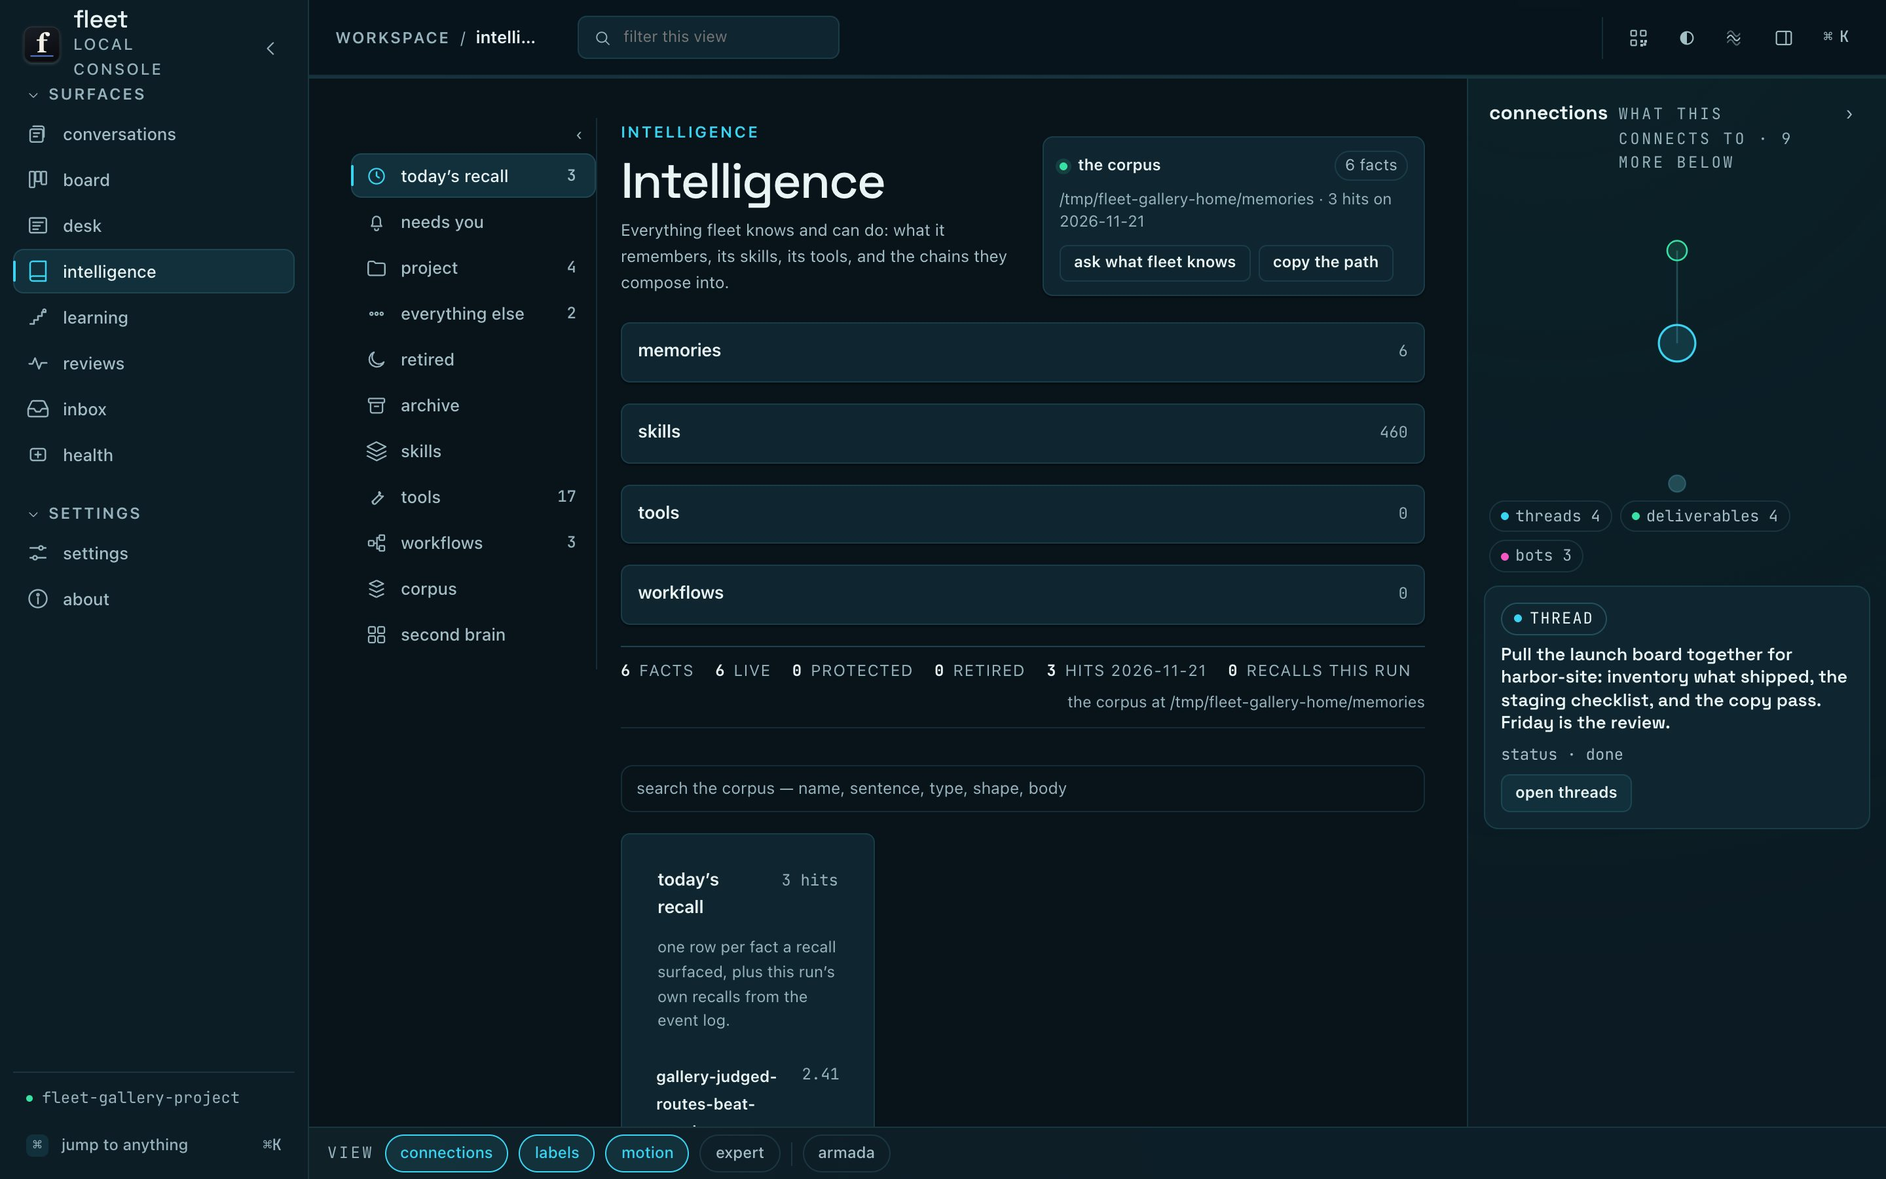
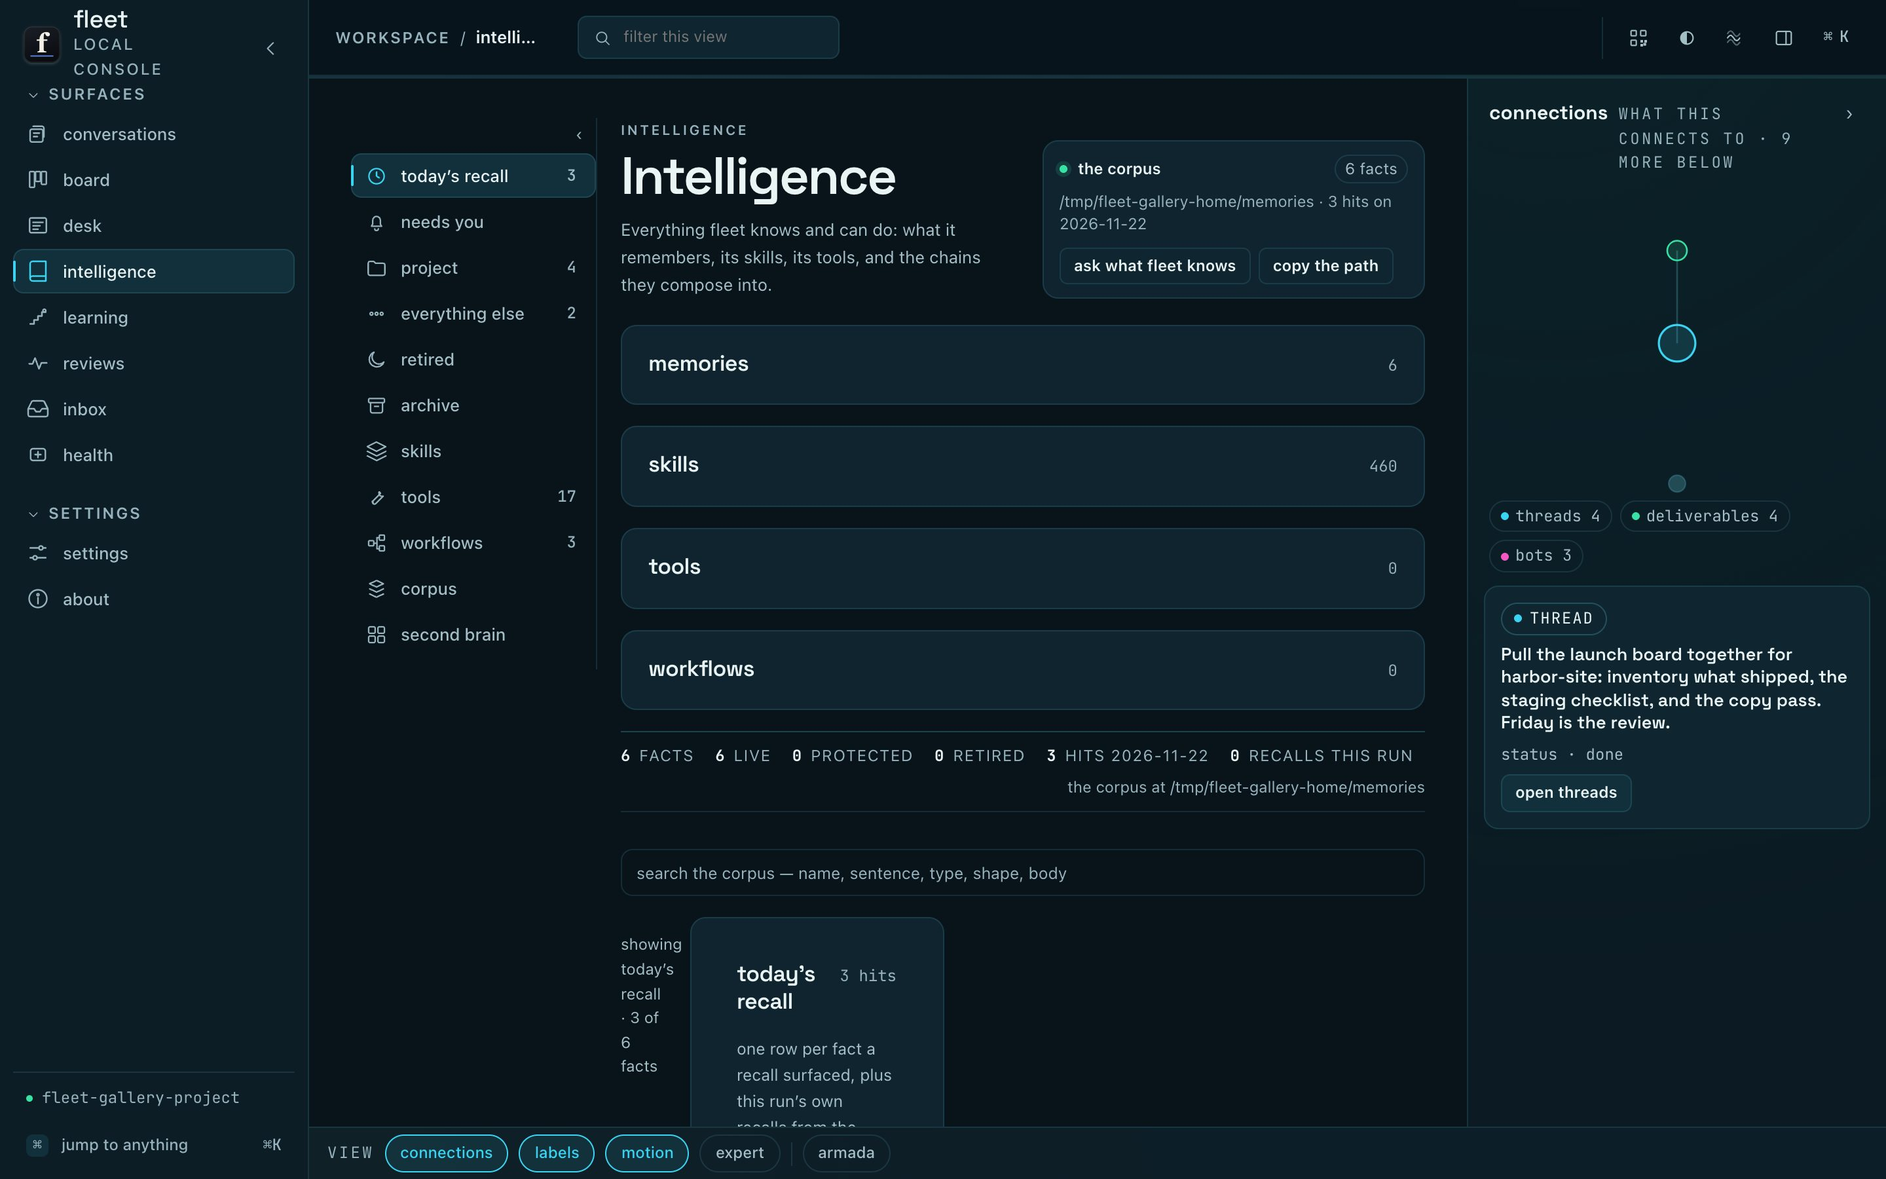
docs(face): the hand walk is measured and written, the gallery is re-shot
The P7 AC's hand walk: the eight gallery routes driven at 1180/900/720/460
over the seeded home on :3105 (the bot fixer's 3096-3099 untouched), with
one written note per surface in the plan's Status pass - stage geometry,
what the surface does at each width, the clipping and the tap targets
under 24px, and who owns each finding.

Measured, not remembered: rail 236 + stage 624 + tissue 320 at 1180, the
rail off-canvas at <=900, no horizontal overflow on any of the 32
measurements, the board's title on the ladder at 37.76/30/27/27px, the
router's 5,137px of content at 1180 against 3,488 at 900. The tap floor
(22x22 message marks, 19-21px text buttons, 14x20 rail fold) is app.css's
and is named for P7 wave one; the desk's sheet landing open at 460 is
named as a P6 note; the room title's elision was app.js's and now carries
its full name in the title attribute.

The gallery: all nine rig shots re-taken from the built tree (2880x1800
desktop, 780x1688 phone), each through the readiness predicate and the
KI-586 stage guard, all populated. surfaces.md gains the desk's missing
section and the four-sentence paragraph per surface; design-system.md
names SENTENCES as the one table.

diff --git a/src/gui/assets/app.js b/src/gui/assets/app.js
@@ -15301,6 +15301,11 @@ import { node, svg, clip } from './core/dom.js';
       });
     });
     el.roomName.textContent = (row && (row.title || row.id)) || face.session;
+    // The name is one line that elides (`.room-title`), and at 1180 the
+    // seeded room's name is 1078px of text in a 560px box — so the whole
+    // name rides the tooltip rather than being unreadable everywhere but
+    // a wide window.
+    el.roomName.title = el.roomName.textContent;
     var tone = row ? roomTone(row) : { word: 'active', tone: 'working' };
     el.roomState.textContent = tone.word;
     el.roomState.dataset.state = tone.tone;

diff --git a/docs/architecture/surfaces.md b/docs/architecture/surfaces.md
@@ -11,7 +11,7 @@ specification should speak. The how stays in the code.
 
 ## The shape every surface shares
 
-Fifteen destinations in four groups — **work** (conversation, inbox,
+The destinations, in four groups — **work** (conversation, inbox,
 design, sessions, huddles, desk, learning), **intelligence** (router,
 delegation), **knowledge** (memory, skills, second brain, workspace
 history), **system** (bots, vault, settings, calibration, plugins) —
@@ -95,6 +95,16 @@ the receipt), while the chrome around them keeps the measure it has.
 **Why.** Because the valuable things a harness does were, everywhere
 else, hidden in panes and logs. Here they are the transcript.
 
+**The four sentences.** The list owes four answers, and every one is the
+archive's own document rather than a second derivation: empty names the
+filter that is empty (`No conversation here is active. \`all\` shows every
+one under this home.`), loading is `Reading the archive…`, a refused read
+says `The archive could not be read:` and the server's reason, and the
+selected state names what the page is reading — `reading <title> ·
+<state> — the transcript below is the whole of it` — from the head's own
+row. The counts in the empty sentence are the read's (`counts`, the
+search's `bound`), never counted here.
+
 **State.** The core surface; complete. The working-folder picker now
 browses the whole disk and takes a typed path.
 
@@ -177,12 +187,58 @@ Background work exists to keep the home alive; it should not crowd out
 the work the owner started, and an unfinished log should not pose as a
 live run.
 
+**The four sentences.** Empty names the way forward (`No approved plan
+carries work right now. Approve a plan and its tasks appear here.`),
+loading is `Still loading your work.` (painted before the read lands, so
+the board is never a blank), a refused read prints the bridge's own
+refusals, and the selected state names the plan the rail narrowed to and
+counts the tasks the document already carries — `showing <plan> · N tasks
+in it — every plan is one press away`. The count is the plan's `tasks`,
+not a tally of the columns.
+
 **State.** The archive's rows now carry their ending, their turns, and
 the log's write time, and the bridge derives the state from them plus
 the live face (the seat, the driving session, a pause's control file,
 and a write-time window for a run on another process — a bound the
 surface says rather than a heartbeat the log does not have). The
 separate read-only replay retired: the conversation is the replay.
+
+### Desk — *work*
+
+**What it is.** The deliverable and its claim, in the split the work
+surfaces share: a shelf of what this home is making — briefs and design
+boards together, each card carrying its five-stage track and its refusal
+chips — and, opened, one deliverable: the claim it must carry, the five
+stages (claims → outline → render → review → knowledge), every claim with
+the sentence behind it and its verdict (asserted, contested, vetoed), the
+sources and numbers it will not stand behind, and the conversation that
+made it. The projects rail and the work column are the same list.
+
+**What you do.** Say what you want made; the brief opens with it as the
+claim. Open a deliverable from the shelf or the column; read a claim's
+source; ask for a change in the thread; read why a number was refused.
+The inspector is the pane's drawer, not a second page.
+
+**Why.** A deliverable that cannot name the sentence behind its claim is
+a draft wearing a finished look. The desk's rule is the refuse-to-end
+gate: while a claim is unsourced or a number is uncanonical the work is
+not done, and the card says so where the work is rather than in a report
+nobody opens.
+
+**The four sentences.** Empty is the invitation (`Say what you want made
+below and the brief opens with it as the claim.`), loading is `Reading
+the desk's projects…`, a project the server could not parse is named by
+slug (`The desk could not read 1 project: <slug>`) instead of vanishing
+from the count, and the selected state names the open deliverable and its
+stage — `open: <name> · <stage> — the shelf is behind this page` — with
+the stage word the stage track already derived. The stage word is the
+document's stages, never a client-side guess at progress.
+
+**State.** Implemented: the shelf, the deliverable, the five stages, the
+claims and their verdicts, the refusals, the thread, the pane's drawer.
+The hand walk's one finding is the shell's: at 460 the work sheet lands
+open over 360 of the 460px stage, so a phone arrives on the list rather
+than on the deliverable.
 
 ### Huddles — *work*
 
@@ -232,6 +288,15 @@ recalled and what it produced sit beside its outcomes, so a room that
 produced no files but taught the home three things reads as three. And a
 capability gap is an opportunity to hire, not a reason to abandon the
 brief — if the room needs a quantum physicist, the room gets one.
+
+**The four sentences.** Empty is the invitation itself (`Start a
+huddle.`), loading is `Reading your rooms…` while the rooms read is on the
+wire (the invitation cannot honestly say no room exists before the read
+lands), a refused read is `The rooms could not be read.` with the
+server's reason under it, and the selected state names the room, the
+chips' own member count, and the state word the head already painted —
+`you are in <room> · N members · <state>`. The room name elides to one
+line; the whole name rides its title attribute.
 
 **State.** Complete; the model (mentions, scope, gaps and hires,
 breakouts, knowledge, delivery) is the huddles plan's, and the surface is
@@ -289,6 +354,16 @@ board makes the decision auditable and the failover visible — the tail
 that closes every walk, the demotion that reordered it, the pin that
 narrowed it.
 
+**The four sentences.** Empty names where the rows will come from (`No
+route rows today. The day's calls land here as they are made.`), loading
+is `Still loading. The live decision below comes straight from the run and
+does not wait for it.`, a refused read names the ledger's reason and says
+the board below is the last read that landed, and the selected state is
+the pin — the surface's one standing choice — so `pinned to <model> —
+every call this run goes there` and `no pin — the judge picks the model
+for each call` are both said rather than left to a control's state. The
+pin is the document's `pin`, never a client-side memory.
+
 **State.** Complete; its numbers reflect the week's single-model pin and
 the nightly jobs rather than real routing traffic, which only begins now
 that the pin is off.
@@ -308,6 +383,16 @@ results with a typed reason instead of silence. The tree is rebuilt from
 the logs' own parent ids and the graph is a file the plan's work writes
 — nothing is inferred from what a run did. Delegation is accountable
 the same way everything else is: through the record.
+
+**The four sentences.** Empty names who writes the graph (`This home has
+declared no dependency graph. The graph is a file the plan's work writes;
+nothing here is inferred from what a run did.`), loading is `Still
+loading. This comes from the session logs and the graph file, both of
+which are this machine's own.`, a refused read keeps the last good tree
+and names the refusal beside it, and the selected state says which of the
+two things is on the page — `showing the run in flight · N nodes` or
+`showing the declared graph · N nodes`. The node count is the tree's or
+the graph's own, never a sum of what rendered.
 
 **State.** The surface is complete; it is only as full as the work is.
 Without a run delegating or a plan declaring a graph it reads empty, and
@@ -330,6 +415,15 @@ consolidation pass; see what was recalled today and how strongly.
 nobody can read — so a fact can be edited, protected, superseded, diffed,
 and recalled by meaning. Each recall is scored, and recall feeds back
 into what rises next time.
+
+**The four sentences.** Empty is the section's own sentence (`No fact in
+this section yet.`), loading is `Still loading. This comes from the
+memories and the day's calibration stream, both of which are this
+machine's own.`, a refused read is the corpus read's reason, and the
+selected state names the section the rail picked and how much of the
+corpus it holds — `showing <section> · N of M facts` — where N is the
+section's badge and M the document's `facts`. A section press therefore
+always changes a sentence, never only a list.
 
 **State.** Complete, with 114 live facts in this repo's corpus, 34
 retired, 13 archived, and the recall-count feedback live.
@@ -436,6 +530,16 @@ and what each has done; revoke a device.
 a grant: paired by name, capability fixed at pairing, token stored as a
 digest. Nothing from outside reaches the agent without a person letting
 it in. All of it is off by default.
+
+**The four sentences.** Empty names how a conversation starts (`Pair a
+phone, or dispatch a task to this persona.`), loading is `Still loading.
+This comes from the channel stores and the service's own status
+document.`, a refused read names the channel store's reason, and the
+selected state names the persona the rail picked and how many
+conversations this home holds for it — `showing <persona> · N
+conversations` — from the conversations document's own count. The
+morning read and the channels rows share the surface's mark rather than
+inventing one.
 
 **State.** The pairing and device model are complete; the channel service
 is idle in this home until turned on, and the bot-first phone shell — the remote root since the 2026-10-28 pivot, serving `fleet bot` (see `docs/features/bot-app.md`) is

diff --git a/docs/plans/2026-11-20-face-rethought.md b/docs/plans/2026-11-20-face-rethought.md
@@ -682,6 +682,117 @@ files' mtimes are all this phase's; the hand walk's notes land in the
 plan's Status pass; `node tests/face/harness.mjs` green with a case count
 **greater** than 197 (the count never falls).
 
+## Status pass, 2026-11-21 — P7 wave two: the four sentences, the icons, the hand walk
+
+**Landed.** `767cf66b` — the four sentences (one table, `SENTENCES`, in
+`app.js`), the eight harness cases that pin them, and `ICONS.advanced`
+(the settings group that wore the state dot). Red-proof: neutering each
+surface's `selected` sentence reds its own case by name, one per family
+(8/8).
+
+**The four sentences, per surface** (the table's own wording; the
+harness case named beside it):
+
+| surface | empty | loading | refused | selected |
+|---|---|---|---|---|
+| sessions | the filter that is empty names itself (`No conversation here is active…`) | `Reading the archive…` | `The archive could not be read: <why>` | `reading <title> · <state> — the transcript below is the whole of it` |
+| board | `No approved plan carries work right now…` | `Still loading your work.` | the read's own refusals, joined | `showing <plan> · N tasks in it — every plan is one press away` |
+| desk | `Say what you want made below…` | `Reading the desk's projects…` | `The desk could not read N project: <slug>` | `open: <name> · <stage> — the shelf is behind this page` |
+| huddles | `Start a huddle.` | `Reading your rooms…` | `The rooms could not be read.` + the reason | `you are in <room> · N members · <state>` |
+| bots | `Pair a phone, or dispatch a task to this persona.` | `Still loading. This comes from the channel stores…` | the channel read's refusals, joined | `showing <persona> · N conversations` |
+| router | `No route rows today…` | `Still loading. The live decision below…` | the ledger's refusals, joined | `pinned to <model> — every call this run goes there` / `no pin — the judge picks the model for each call` |
+| delegation | `This home has declared no dependency graph…` | `Still loading. This comes from the session logs and the graph file…` | the read's refusals, joined | `showing the run in flight · N nodes` / `showing the declared graph · N nodes` |
+| memory | `No fact in this section yet.` | `Still loading. This comes from the memories…` | the corpus read's refusals, joined | `showing <section> · N of M facts` |
+
+Two behaviour changes came with them: the **desk** gained the loading and
+refused sentences it never had (its welcome painted over an unlanded read
+and read as an empty home), and the **board** now paints its loading
+sentence before its read lands (it painted nothing at all until the fetch
+resolved — the one silent blank left in the nine).
+
+**The hand walk**, 2026-11-21, against the seeded gallery home on
+`:3105` (scratch `FLEET_HOME`, never `~/.fleet`; the bot fixer's
+`:3096-3099` untouched), measured with Playwright over the installed
+Chrome. The instrument is the rig's own recipe (about:blank → `/` →
+reload → the hash) and reads `getBoundingClientRect` per surface; it is
+not committed (the plan owns the notes, the rig owns the shots).
+
+**The shell, measured on all eight routes.** 1180: topbar 58, rail 236,
+stage **624×800**, and the 320px right of the window is the tissue graph
+(verified by `elementFromPoint`, not assumed to be empty). 900: the rail
+is off-canvas (`transform: translateX(-268px)`), the tissue is gone, the
+stage is **900×810**. 720: **720×810**. 460: **460×754**. No route
+overflows horizontally at any width (`scrollWidth - innerWidth = 0` on
+all 32 measurements).
+
+- **sessions.** Stage 624/900/720/460; the transcript is the surface
+  (2,791 characters) and the work list is `display:none` at every width —
+  it opens as the sheet, so the conversation never gives width away on
+  arrival. No vertical scroll at any width; no page overflow. Nine
+  controls sit under the 24px tap floor at every width: the onboarding
+  cards' `.foot-btn` (21px high), `.recent-all` and `.onboard-sys1-link`
+  (19px), plus one 28px-wide button clipped by its own box.
+- **board.** Stage 624→460; the title follows the display ladder
+  (37.76 → 30 → 27 → 27px) and the page scrolls vertically at every
+  width (861/957/931/1054 of content). Nothing clips. One tap target
+  under the floor at 460: the section-rail fold, 14×20.
+- **desk.** The work sheet is **open at all four widths**
+  (`body[data-work="open"]`, 360px). At 460 that covers 360 of the 460px
+  stage — the deliverable shows through the right 100px, and `.room-back`
+  plus the 26px fold are both present, so it is dismissible, but arrival
+  on a phone lands on the list rather than on the deliverable. The centre
+  does not scroll (the project's cards fit 800/810/810/754); the
+  selected sentence leads it, above the deliverable's head. Title
+  51.9/39.6/40/40px.
+- **huddles.** Stage 624→460; the room title is one elided line and the
+  seeded name is 1078px of text in a 560/820/656/396px box — so the full
+  name now rides the title attribute (fixed in this wave). The stage
+  scrolls only at 460 (877 of 754). **22 tap targets under 24px at every
+  width**: the transcript's `.row-rewind.msg-*` marks are 22×22 — the
+  conversation's per-message marks, the one real tap defect the walk
+  found. `.composer-hint` clips at 900 (93/160).
+- **bots.** Stage 624→460; 410 characters (the seeded persona is quiet:
+  `showing tower · 0 conversations`); no scroll, no clipping, one tap
+  target under the floor (the rail fold).
+- **router.** The tallest surface: 5,137px of content at 1180 against
+  3,488 at 900 (the rail cards stack into one column and the page gets
+  shorter but still scrolls). At 1180 three right-rail `.board-card`s
+  clip their own text (179px box, 292/240/234px of content); at 460 four
+  `.scatter-name`s clip (137px box, 216/151/180/209). No page overflow;
+  no tap targets under the floor.
+- **delegation.** 3,516/3,393/3,477/3,688 of content; one right-rail
+  `.board-card` clips at 1180 (179/240); no tap targets under the floor;
+  the selected sentence reads `showing the declared graph · 5 nodes` at
+  all four widths.
+- **memory.** 1,474/1,245/1,207/1,486 of content; one `.board-card.lib-card`
+  clips at 1180 (111/185); one tap target under the floor; the selected
+  sentence reads `showing today's recall · 3 of 6 facts`.
+
+**What the walk found, and who owns it.** The tap floor (22×22 message
+marks, 19–21px text buttons, 14×20 rail fold) is a **stylesheet** size —
+`app.css` is P7 wave one's file, so these are named here for its next
+pass, not patched around in `app.js`. The desk's sheet landing open at
+460 is a shell behaviour (`paintDesk` asks for the list; the sheet is the
+list) — named as a **P6 note** rather than changed, because it moves the
+phone's first screen. The room title's elision was `app.js`'s to fix and
+is fixed.
+
+**The gallery.** Nine shots re-taken from the built tree on `:3105`
+through the committed rig (`scripts/gallery-shoot.mjs`, JPEG q82):
+`surface-sessions`, `surface-board`, `surface-desk-drawer`,
+`surface-huddles`, `surface-bots`, `surface-router`, `surface-delegation`,
+`surface-memory` at **2880×1800** (1440×900 @2x) and
+`surface-huddles-phone` at **780×1688** (390×844 @2x) — every one passing
+the rig's readiness predicate and the KI-586 stage guard, all populated
+(117–289KB). The README strip's four references all resolve; no
+repointing was needed.
+
+The remaining `surface-*.jpg` (`settings`, `vault`, `plugins`,
+`calibration`, `second-brain`, `design`, `skills`, `telemetry`, `chat`,
+`landing`) date from 2026-11-04 and belong to surfaces P6 is rewriting
+now — re-shooting them mid-phase would capture a half-built surface, so
+their refresh is P6's own AC, not this wave's.
+
 ## Files to be touched
 
 - `src/gui/assets/app.js` — every surface builder named above; `ICONS`

diff --git a/docs/architecture/design-system.md b/docs/architecture/design-system.md
@@ -129,6 +129,14 @@ nothing animates on load. A refused read keeps the last good value visible
 and names the refusal. Empty, loading, refused and selected are four
 different sentences.
 
+**The four sentences live in one table.** `SENTENCES` in `app.js` holds
+each surface's empty, loading, refused and selected wording — keyed by
+the surface's own address, with a function where the sentence carries a
+count or a name — and the builders read it rather than holding a second
+copy. The selected state is a `derivation` line carrying
+`data-state="selected"`; `tests/face/harness.mjs` pins all four per
+surface by content, so a deleted sentence fails by name.
+
 `@media (prefers-reduced-motion: reduce)` is a real rule: 1ms durations,
 one iteration, zero delay — a reduced-motion page paints its final state
 once and stops. `themes.rs` pins that rule's declarations.
